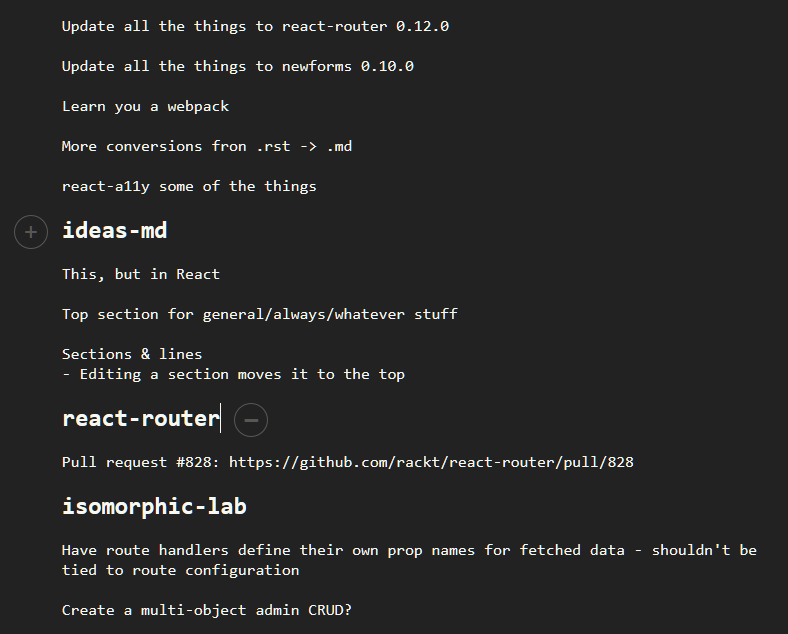
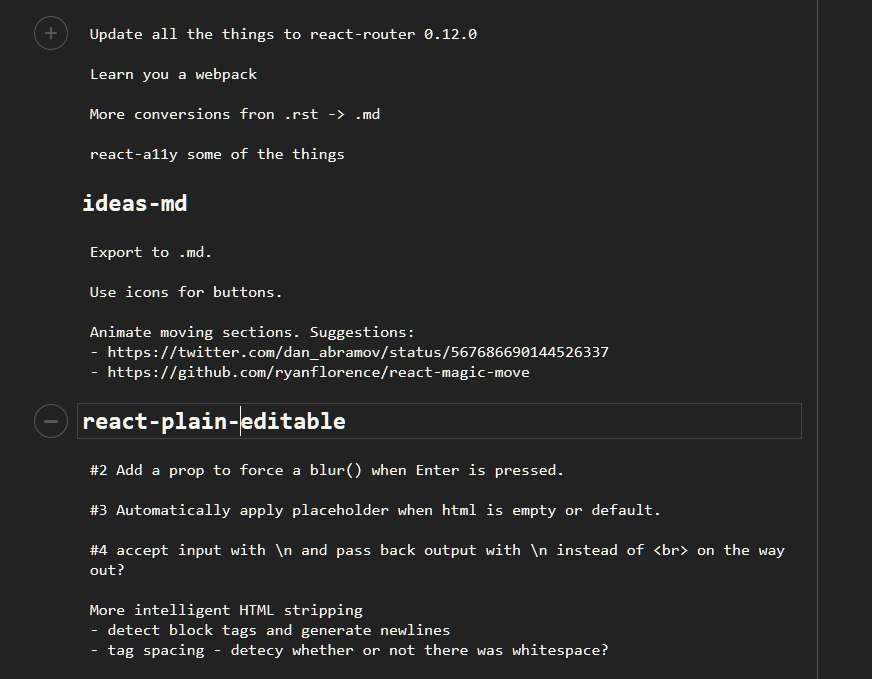
Style/layout tweaks & updated screenshot
- Moved add section button to the top
- Moved remove section buttons into the LHS soace
- Make section names use the full width
- Display remove section buttons when hovering over any part of a section
- More padding/margim adjustments
- Centre layout
- Add a print margin style line at the right

diff --git a/app.jsx b/app.jsx
@@ -205,18 +205,19 @@ var Ideas = React.createClass({
 
   render() {
     return <div className="Ideas">
-      <PlainEditable
-        className="Ideas__general"
-        html={this.state.general}
-        onBlur={this._onBlur}
-        placeholder="[general]"
-      />
+      <Button className="Ideas__add"
+              onClick={this._addSection}
+              title="Add section">
+        +
+      </Button>
+      <div className="Ideas__general">
+        <PlainEditable
+          html={this.state.general}
+          onBlur={this._onBlur}
+          placeholder="[general]"
+        />
+      </div>
       <div className="Ideas__sections">
-        <Button className="Ideas__add"
-                onClick={this._addSection}
-                title="Add section">
-          +
-        </Button>
         {this.state.sections.map((section, i) => <Section
           {...section}
           index={i}
@@ -255,6 +256,11 @@ var Section = React.createClass({
   render() {
     return <div className="Section">
       <h2>
+        <Button className="Section__remove"
+                      onClick={this._onRemove}
+                      title="Remove section">
+          &mdash;
+        </Button>
         <PlainEditable
           autoFocus={this.props.isNew}
           className="Section__name"
@@ -264,11 +270,6 @@ var Section = React.createClass({
           onKeyDown={this._onKeyDown}
           placeholder="[section]"
         />
-        <Button className="Section__remove"
-                      onClick={this._onRemove}
-                      title="Remove section">
-          &mdash;
-        </Button>
       </h2>
       <PlainEditable
         className="Section__ideas"

diff --git a/style.css b/style.css
@@ -4,7 +4,7 @@ body {
   font-family: consolas, monospace;
   font-size: 16px;
   margin: 0;
-  padding: 16px;
+  padding: 0;
 }
 
 footer {
@@ -44,33 +44,43 @@ footer a {
   opacity: 1 !important;
 }
 
-.Ideas {
+#app {
+  border-right: 1px solid #575756;
   box-sizing: border-box;
   max-width: 50em;
-  padding-left: 48px;
+  margin: 0 auto;
+  padding: 16px;
+}
+.Ideas {
+
+  position: relative;
+
+
 }
 .Ideas__general {
+  padding-left: 44px;
   margin-bottom: 6px;
 }
+.Ideas__general  .PlainEditable {
+  padding: 8px 12px;
+}
 .Ideas__sections {
-  position: relative;
 }
 .Ideas__add {
-  left: -48px;
+  left: 0;
   opacity: .25;
   position: absolute;
-  top: 10px;
+  top: 0;
 }
 
+.Section {
+  padding-left: 44px;
+}
 .Section h2 {
-  display: inline-block;
-  margin: 0;
-  padding: 12px 51px 12px 0;
-  position: relative;
+  margin: 14px 0;
 }
 .Section__name {
-  margin-right: 16px;
-  min-width: 5em;
+  padding: 2px 4px;
 }
 .Section__ideas {
   padding: 8px 12px;
@@ -78,10 +88,9 @@ footer a {
 .Section__remove {
   opacity: 0;
   position: absolute;
-  right: 19px;
-  top: 10px;
+  left: 0;
 }
-.Section h2:hover .Section__remove {
+.Section:hover .Section__remove {
   opacity: .25;
 }
 .Section__remove:focus {
